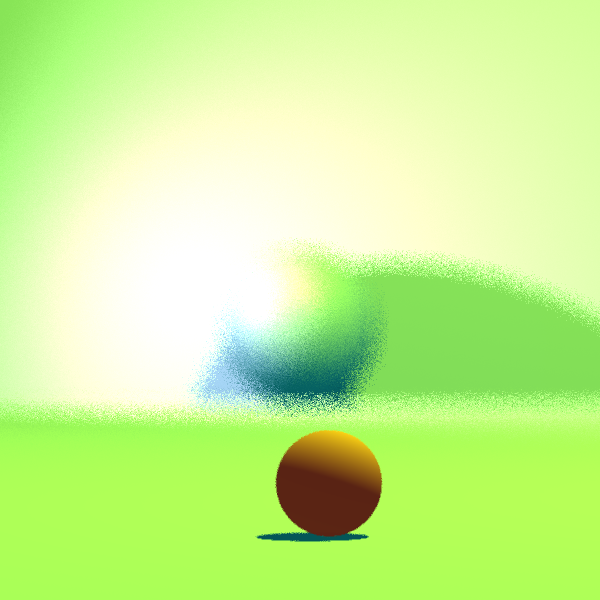
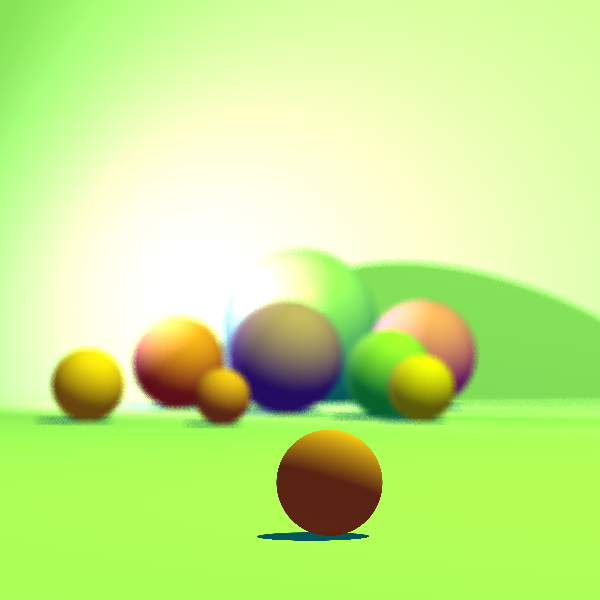
final+fixed dof

diff --git a/Tests/project/DepthOfField.java b/Tests/project/DepthOfField.java
@@ -32,27 +32,27 @@ public class DepthOfField {
                 new Sphere(30, new Point3D(165, -10, 0))
                         .setEmission(new Color(3, 85, 87))
                         .setMaterial(new Material().setKd(0.9).setKt(0.1).setKs(0.2).setShininess(19)),
-              //  new Sphere(20, new Point3D(110, -20, 45))
-              //          .setEmission(new Color(80, 8, 87))
-              //          .setMaterial(new Material().setKd(0.9).setKt(0.1).setShininess(19)),
-              //  new Sphere(20, new Point3D(60, -20, -5))
-              //          .setEmission(new Color(30, 8, 87))
-              //          .setMaterial(new Material().setKd(0.9).setKt(0.1).setShininess(19)),
-              //  new Sphere(11, new Point3D(-10, -29, 40))
-              //          .setEmission(new Color(80, 79, 8))
-              //          .setMaterial(new Material().setKd(0.9).setKt(0.1).setShininess(19)),
-              //  new Sphere(15, new Point3D(20, -25, 30))
-              //          .setEmission(new Color(3, 85, 40))
-              //          .setMaterial(new Material().setKd(0.9).setKt(0.1).setShininess(19)),
-              //  new Sphere(17, new Point3D(110, -23, -45))
-              //          .setEmission(new Color(80, 8, 20))
-              //          .setMaterial(new Material().setKd(0.9).setKt(0.1).setShininess(19)),
-              //  new Sphere(12, new Point3D(-10, -28, -70))
-              //          .setEmission(new Color(90, 60, 10))
-              //          .setMaterial(new Material().setKd(0.9).setKt(0.1).setShininess(19)),
-              //  new Sphere(9, new Point3D(-35, -31, -25))
-              //          .setEmission(new Color(80, 30, 18))
-              //          .setMaterial(new Material().setKd(0.9).setKt(0.1).setShininess(19)),
+               new Sphere(20, new Point3D(110, -20, 45))
+                       .setEmission(new Color(80, 8, 87))
+                       .setMaterial(new Material().setKd(0.9).setKt(0.1).setShininess(19)),
+               new Sphere(20, new Point3D(60, -20, -5))
+                       .setEmission(new Color(30, 8, 87))
+                       .setMaterial(new Material().setKd(0.9).setKt(0.1).setShininess(19)),
+               new Sphere(11, new Point3D(-10, -29, 40))
+                       .setEmission(new Color(80, 79, 8))
+                       .setMaterial(new Material().setKd(0.9).setKt(0.1).setShininess(19)),
+               new Sphere(15, new Point3D(20, -25, 30))
+                       .setEmission(new Color(3, 85, 40))
+                       .setMaterial(new Material().setKd(0.9).setKt(0.1).setShininess(19)),
+               new Sphere(17, new Point3D(110, -23, -45))
+                       .setEmission(new Color(80, 8, 20))
+                       .setMaterial(new Material().setKd(0.9).setKt(0.1).setShininess(19)),
+               new Sphere(12, new Point3D(-10, -28, -70))
+                       .setEmission(new Color(90, 60, 10))
+                       .setMaterial(new Material().setKd(0.9).setKt(0.1).setShininess(19)),
+               new Sphere(9, new Point3D(-35, -31, -25))
+                       .setEmission(new Color(80, 30, 18))
+                       .setMaterial(new Material().setKd(0.9).setKt(0.1).setShininess(19)),
                 new Sphere(9, new Point3D(-491, -31, 5))
                         .setEmission(new Color(80, 30, 18))
                         .setMaterial(new Material().setKd(0.9).setKt(0.1).setShininess(19))
@@ -62,12 +62,12 @@ public class DepthOfField {
         scene.lights.add(new DirectionalLight(new Color(185, 200, 0), new Vector(-100, -50, 90)));
         scene.lights.add(new SpotLight(new Color(229, 180, 225), new Point3D(100, 30, -90), new Vector(65, -50, 90)));
         scene.lights.add(new PointLight(new Color(185, 200, 0), new Point3D(-400, 600, 200)));
-        ImageWriter imageWriter = new ImageWriter("dof_", 600, 600);
+        ImageWriter imageWriter = new ImageWriter("dof_4d", 600, 600);
         Render render = new Render() //
                 .setImageWriter(imageWriter) //
                 .setCamera(cameraTo) //
                 .setRayTracer(new BasicRayTracer(scene)) 
-              .setAdaptiveSampling(true);
+              .setAdaptiveSampling(false);
 
         render.renderImage();
         render.writeToImage();
